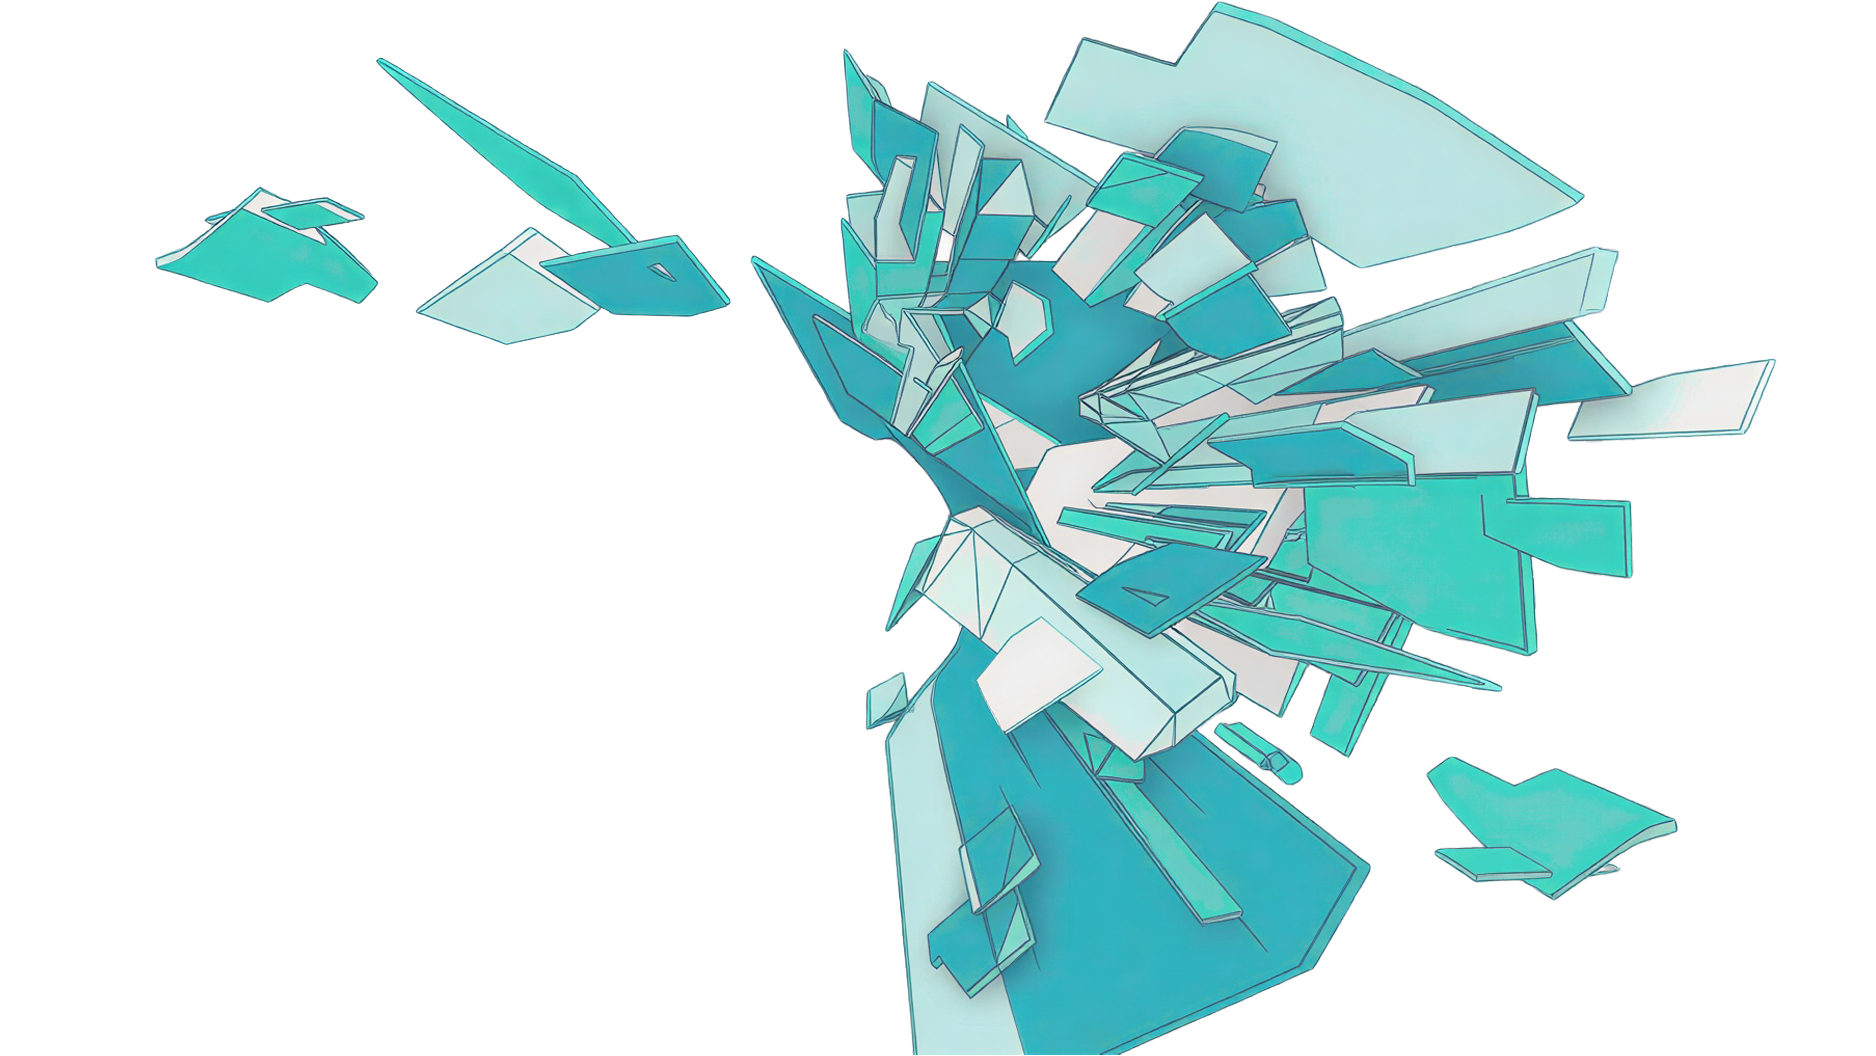
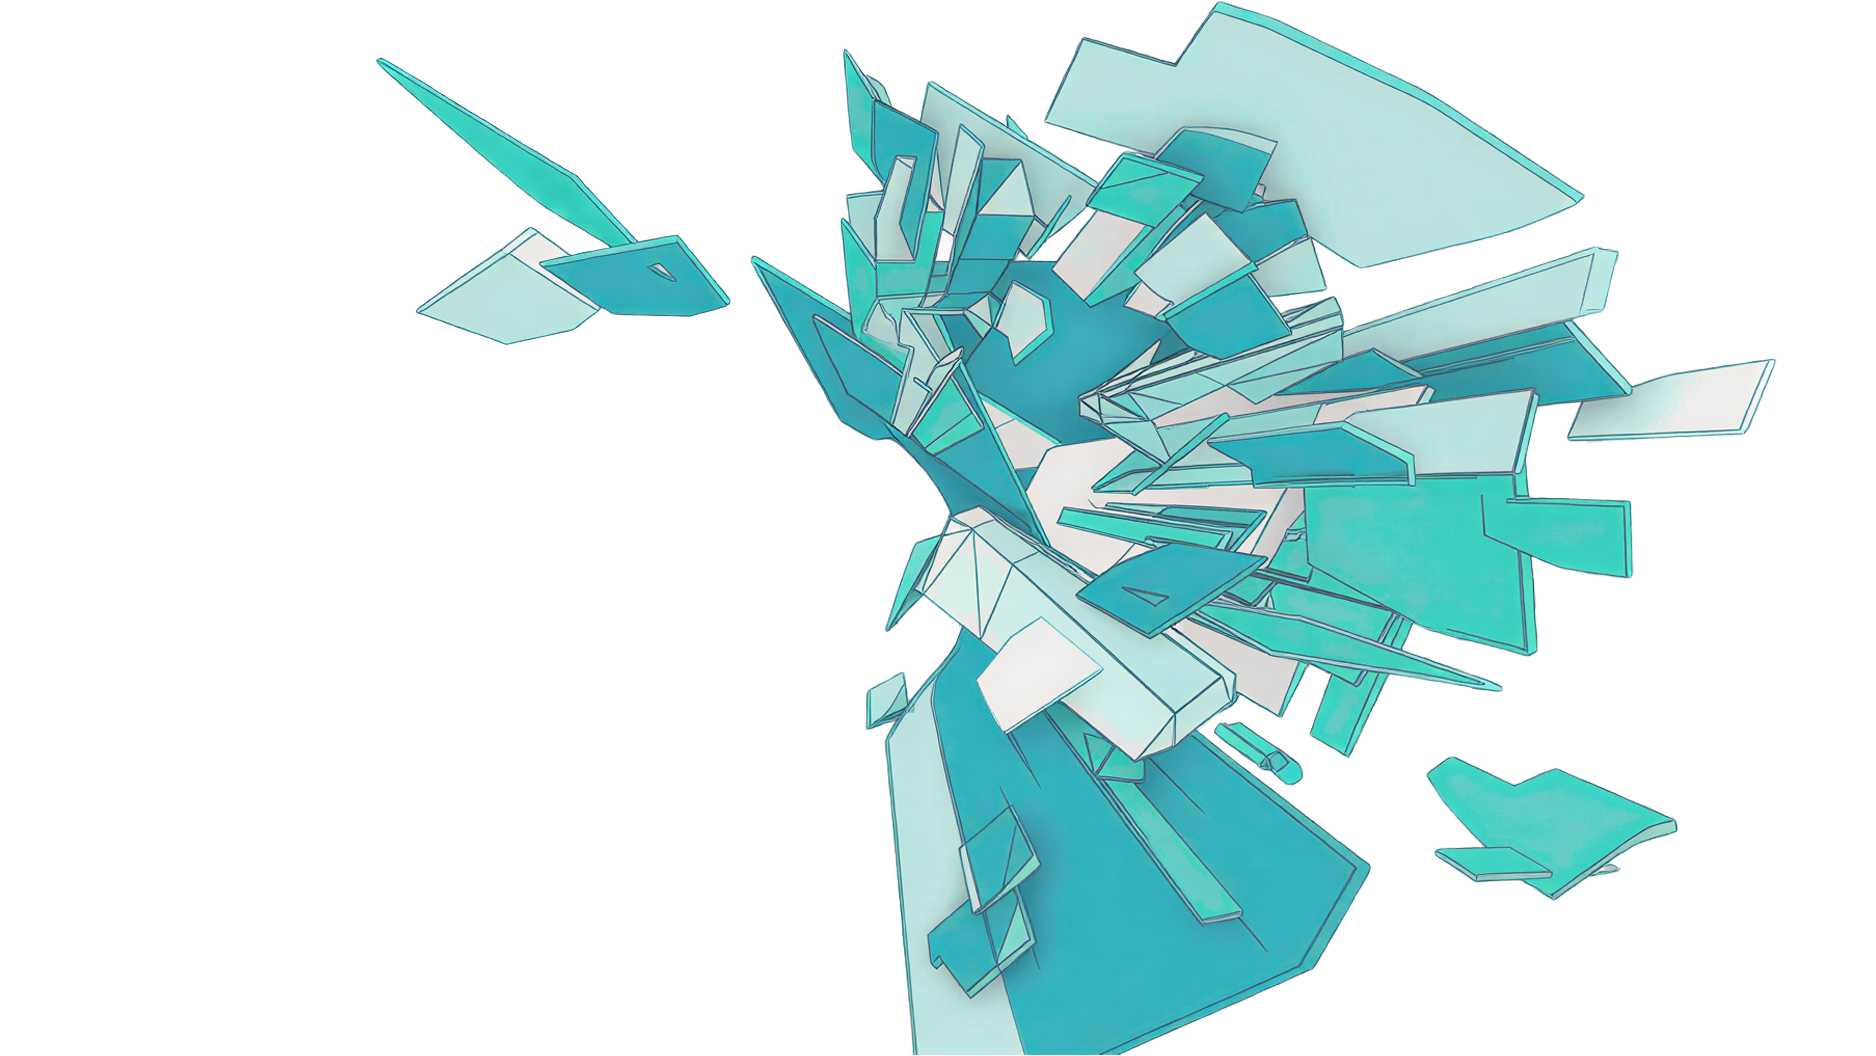
Fixed Hero Images

Changed region(s): [[0.0928, 0.1875, 0.2164, 0.2812]]

diff --git a/src/pages/Home/components/HeroSection.jsx b/src/pages/Home/components/HeroSection.jsx
@@ -91,7 +91,14 @@ export default function HeroSection() {
       <div className="absolute top-1/2 left-1/2 -translate-x-1/2 -translate-y-1/2 w-[600px] h-[600px] rounded-full bg-[#2dd4bf]/10 blur-3xl pointer-events-none" />
 
       <div className="relative max-w-6xl mx-auto px-6 pt-32 pb-20 w-full">
-        <div className="grid grid-cols-1 lg:grid-cols-2 gap-12 items-center">
+        {/* Hero background image - behind text */}
+        <img
+          src="/assets/images/wipeout.png"
+          alt="background"
+          className="hero-bg-image absolute object-cover pointer-events-none"
+          style={{ width: '900px', height: '700px', left: '65%', top: '50%', transform: 'translate(-50%, -50%)', zIndex: 0 }}
+        />
+        <div className="grid grid-cols-1 lg:grid-cols-2 gap-12 items-center relative z-10">
 
           {/* Left: text content */}
           <div>
@@ -174,15 +181,8 @@ export default function HeroSection() {
             animate={{ opacity: 1, x: 0 }}
             transition={{ duration: 0.9, delay: 0.7, ease: 'easeOut' }}
             className="hero-portrait flex items-center justify-center relative overflow-visible"
-            style={{ width: '1100px', height: '700px', marginLeft: '-120px' }}
+            style={{ width: '1100px', height: '700px', marginLeft: '-280px' }}
           >
-            {/* Wipeout background image */}
-            <img
-              src="/assets/images/wipeout.png"
-              alt="background"
-              className="hero-bg-image absolute object-cover pointer-events-none"
-              style={{ width: '100%', height: '100%', transform: 'translateX(-40px)', opacity: 1 }}
-            />
             <PortraitRing />
           </motion.div>
 
